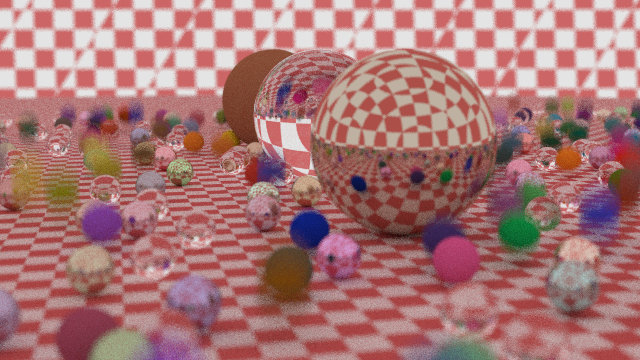
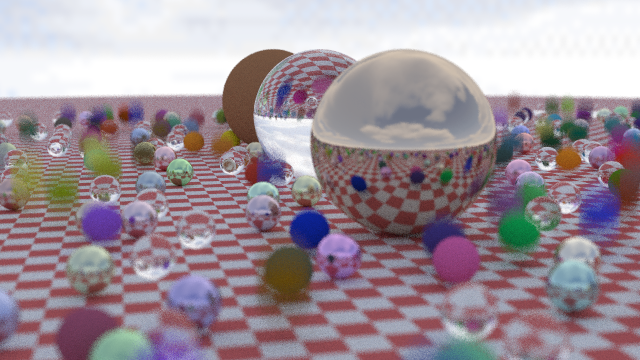
add uv coordinates for sphere

diff --git a/main.cpp b/main.cpp
@@ -2,17 +2,12 @@
 
 void random_spheres(shared_ptr<Image>& image)
 {
-
     int height = image->get_height(), width = image->get_width();
-
-    const double aspect_ratio = (double) width / (double) height;
-
-    auto checker = make_shared<CheckerTexture>(0.3, BROWN, LIGHT_GREY);
-
-    auto sky_box = make_shared<SkyBox>(checker);
+    auto sky_box = make_shared<SkyBox>(make_shared<ImageTexture>(make_shared<Image>(SKYBOX_FILE)));
 
     ObjectsList scene = ObjectsList();
 
+    auto checker = make_shared<CheckerTexture>(0.3, BROWN, LIGHT_GREY);
     auto ground_material = make_shared<Lambertian>(checker);
     scene.add(make_shared<Sphere>(point3(0,-1000,0), 1000, ground_material));
 
@@ -56,8 +51,7 @@ void random_spheres(shared_ptr<Image>& image)
 
     shared_ptr<ObjectsList> world = make_shared<ObjectsList>(ObjectsList(make_shared<bvh_node>(scene)));
 
-    double focus_dist = (LOOK_FROM - LOOK_AT).length();
-    shared_ptr<Camera> camera = make_shared<Camera>(LOOK_FROM, LOOK_AT, VIEW_UP, FOV, aspect_ratio, APERTURE, focus_dist);
+    shared_ptr<Camera> camera = make_shared<Camera>();
     SceneData scene_data = {world, sky_box};
 
     camera->render(image, scene_data);

diff --git a/utility/objects/sphere.h b/utility/objects/sphere.h
@@ -36,6 +36,14 @@ class Sphere : public Object
 
             move = _center2 - _center1;
         }
+        static void get_sphere_uv(const point3& p, double& u, double& v)
+        {
+            double theta = acos(-p.y());
+            double phi = atan2(-p.z(), p.x()) + PI;
+
+            u = phi / (2 * PI);
+            v = theta / PI;
+        }
         aabb bounding_box() const override { return bbox;}
         virtual bool hit(const Ray& ray, Interval ray_t, hit_record& rec) const override;
 };
@@ -62,6 +70,7 @@ bool Sphere::hit(const Ray& ray, Interval ray_t, hit_record& rec) const
     rec.p = ray.at(root);
     vec3 outward_normal = (rec.p - center) / radius;
     rec.set_face_normal(ray, outward_normal);
+    get_sphere_uv(outward_normal, rec.u, rec.v);
     rec.material = material;
 
     return true;

diff --git a/utility/texture.h b/utility/texture.h
@@ -24,6 +24,25 @@ class SolidColor : public Texture
         }
 };
 
+class GradientTexture : public Texture
+{
+    private:
+        shared_ptr<Texture> first;
+        shared_ptr<Texture> second;
+    public:
+        GradientTexture(shared_ptr<Texture> _first, shared_ptr<Texture> _second) :
+            first(_first), second(_second) {}
+        
+        GradientTexture(color _first, color _second) :
+            first(make_shared<SolidColor>(_first)),
+            second(make_shared<SolidColor>(_second)) {}
+
+        color value(double u, double v, const point3& p) const override
+        {
+            return first->value(u, v, p) * (1.0 - v) + second->value(u, v, p) * v;
+        }
+};
+
 class CheckerTexture : public Texture
 {
     private:

diff --git a/utility/camera.h b/utility/camera.h
@@ -52,6 +52,14 @@ class Camera
 
             lens_radius = aperture / 2;
         }
+        Camera(point3 look_from = LOOK_FROM,
+               point3 look_at = LOOK_AT,
+               vec3 vup = VIEW_UP,
+               double fov = FOV,
+               double aspect_ratio = ASPECT_RATIO,
+               double aperture = APERTURE)
+            : Camera(look_from, look_at, vup, fov, aspect_ratio, aperture,
+            (look_at - look_from).length()) {}
 
         Ray get_ray(double u_p, double v_p) const
         {

diff --git a/utility/common.h b/utility/common.h
@@ -19,6 +19,7 @@ const double PI = 3.1415926535897932385;
 #define SKYBOX_FILE "./data/cubemap.png"
 #define IMG_WIDTH (640)
 #define IMG_HEIGHT (360)
+#define ASPECT_RATIO ((double) IMG_WIDTH / (double) IMG_HEIGHT)
 #define SAMPLES_PER_PIXEL 50
 #define MAX_DEPTH 50
 #define FOV 40
